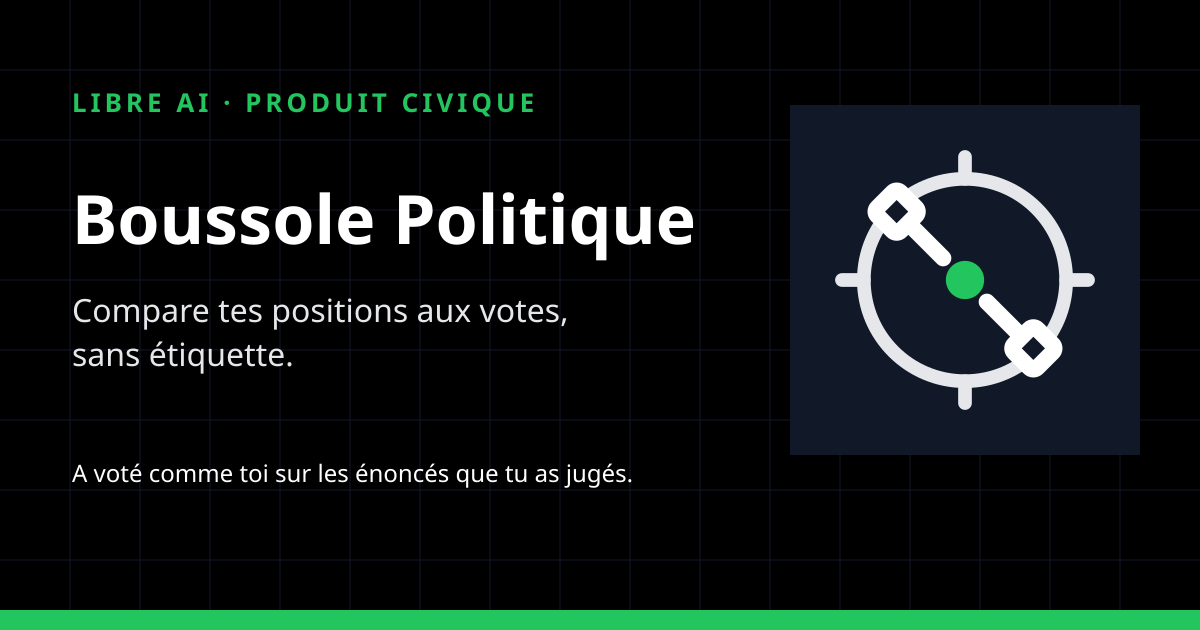
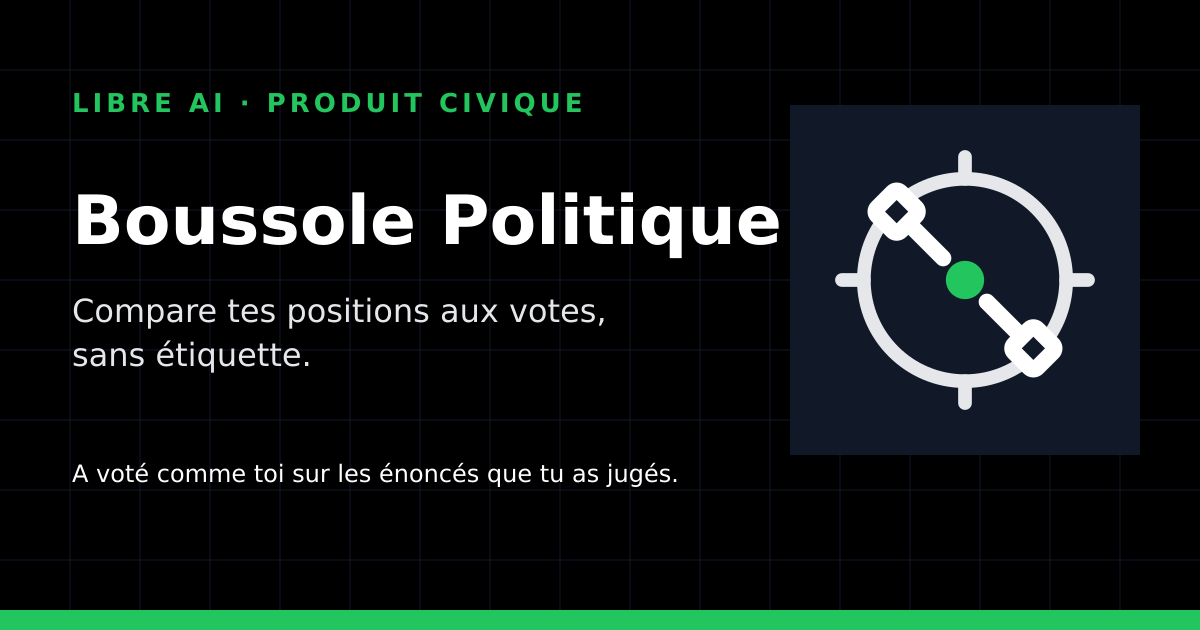
fix(brand): pin the rendering toolchain, refresh the committed bytes, gate them
Two gates the repository was missing, and the diagnosis that made the first
one possible.

## Why the committed PNGs no longer reproduced

Established in CI, not assumed — run 30193088312 compared the committed blobs
to a regeneration at three levels (chunk inventory, IHDR fields, decoded
pixels). Nine paths diverged, not the four previously reported: every PNG plus
the manifest that carries their hashes.

Six of the eight PNGs — favicon-32, apple-touch-icon, icon-192, icon-512,
icon-maskable-192, icon-maskable-512 — decoded to BYTE-IDENTICAL pixels.
Only the container differed: the ImageMagick in the runner image writes a
cHRM chunk the committed files do not carry, and segments IDAT differently
(one 19685-byte chunk where the committed file has 8192+8192+2975). Nothing
about the image changed; the encoder did.

The remaining two — social-card and icon-size-sheet — differ in pixels:
5.52 % and 2.33 % of samples, max channel delta 255 and 238. These are the
only two generated SVGs containing <text>. They ask for "Inter" and
"Plus Jakarta Sans"; the runner has neither (fc-list: DejaVu, Lato,
Liberation, Noto Color Emoji), so fontconfig substitutes, and the glyph
metrics of whatever it picks decide the raster. The visible result is a
slightly wider title on the social card and on the sheet heading; both render
correctly, accents included.

So the previous conclusion — "the binaries are not reproducible" — was too
[…]

diff --git a/scripts/check-duplicate-fingerprints.py b/scripts/check-duplicate-fingerprints.py
@@ -1,0 +1,135 @@
+#!/usr/bin/env python3
+"""Fail when tracked files share a content fingerprint outside the declared set.
+
+Two files with the same SHA-256 are the same bytes, whatever their names; two
+files with the same name may be nothing alike. This gate therefore joins on
+content, never on path, and pins the groups that are legitimately identical --
+brand-generator outputs plus one documented bit-for-bit copy.
+
+It fails in both directions:
+
+  * an undeclared group of identical files appeared, or
+  * a declared group stopped matching.
+
+The second direction is the one that protects scoring. `vecteurs-test.json` is
+written at the repository root by `dry-run/scripts/formule_v2.py`, while
+`crates/scoring/tests/golden_vectors.rs` reads the copy under `fixtures/scoring/`.
+`docs/implementation/contrats-rust-m2.md` calls that copy bit-for-bit, but no
+generator and no test keeps the two in step. Without this check a divergence is
+silent, and the executable specification and the golden test would then prove
+two different scales for the same questionnaire.
+"""
+
+from __future__ import annotations
+
+import hashlib
+import subprocess
+import sys
+from collections import defaultdict
+from pathlib import Path
+
+REPO_ROOT = Path(__file__).resolve().parent.parent
+
+# Sorted path tuple -> why these bytes are legitimately identical.
+DECLARED_GROUPS: dict[tuple[str, ...], str] = {
+    (
+        "fixtures/scoring/vecteurs-test.json",
+        "vecteurs-test.json",
+    ): (
+        "documented bit-for-bit copy (docs/implementation/contrats-rust-m2.md): "
+        "dry-run/scripts/formule_v2.py writes the root file, "
+        "crates/scoring/tests/golden_vectors.rs reads the fixture"
+    ),
+    (
+        "apps/web/assets/favicon.svg",
+        "assets/brand/icon-source.svg",
+        "assets/brand/icon.svg",
+    ): (
+        "generated: scripts/generate-assets.sh copies "
+        "icon-source.svg -> icon.svg -> favicon.svg"
+    ),
+    (
+        "apps/web/assets/icon-192.png",
+        "apps/web/assets/icon-maskable-192.png",
+    ): "generated: scripts/generate-assets.sh renders both at 192 from the same source",
+    (
+        "apps/web/assets/icon-512.png",
+        "apps/web/assets/icon-maskable-512.png",
+    ): "generated: scripts/generate-assets.sh renders both at 512 from the same source",
+}
+
+
+def tracked_files() -> list[str]:
+    """Tracked paths only: untracked scratch files would pollute the join."""
+    output = subprocess.check_output(["git", "ls-files", "-z"], cwd=REPO_ROOT)
+    return [raw.decode() for raw in output.split(b"\0") if raw]
+
+
+def fingerprint(relative: str) -> str:
+    digest = hashlib.sha256()
+    with (REPO_ROOT / relative).open("rb") as handle:
+        for chunk in iter(lambda: handle.read(1 << 20), b""):
+            digest.update(chunk)
+    return digest.hexdigest()
+
+
+def main() -> int:
+    paths = tracked_files()
+    by_digest: dict[str, list[str]] = defaultdict(list)
+    examined = 0
+    for relative in paths:
+        absolute = REPO_ROOT / relative
+        # Symlinks and gitlinks carry no content of their own to compare.
+        if absolute.is_symlink() or not absolute.is_file():
+            continue
+        by_digest[fingerprint(relative)].append(relative)
+        examined += 1
+
+    # An empty join satisfies every assertion below, so refuse it explicitly
+    # rather than report a green that only means "nothing was looked at".
+    if examined == 0:
+        print(
+            "duplicate fingerprints: FAIL (0 files examined -- "
+            "the join found nothing to compare)",
+            file=sys.stderr,
+        )
+        return 1
+
+    observed = {
+        tuple(sorted(group)): digest
+        for digest, group in by_digest.items()
+        if len(group) > 1
+    }
+
+    failures: list[str] = []
+    for group, digest in sorted(observed.items()):
+        if group not in DECLARED_GROUPS:
+            failures.append(
+                f"undeclared identical contents [{digest[:16]}]: " + ", ".join(group)
+            )
+    for group, reason in sorted(DECLARED_GROUPS.items()):
+        if group not in observed:
+            failures.append(
+                "declared identical contents no longer match: "
+                + ", ".join(group)
+                + f" -- {reason}"
+            )
+
+    if failures:
+        print(
+            f"duplicate fingerprints: FAIL ({examined} files examined)",
+            file=sys.stderr,
+        )
+        for line in failures:
+            print(f"  {line}", file=sys.stderr)
+        return 1
+
+    print(
+        f"duplicate fingerprints: PASS ({examined} files examined, "
+        f"{len(observed)} declared identical groups)"
+    )
+    return 0
+
+
+if __name__ == "__main__":
+    raise SystemExit(main())
